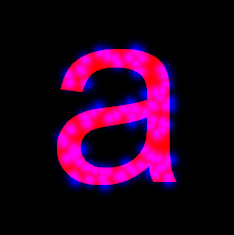
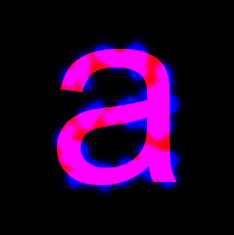
implement threshold-merging method

Changed region(s): [[0.2094, 0.1489, 0.7778, 0.8043]]

diff --git a/bubbles.py b/bubbles.py
@@ -3,7 +3,7 @@ import numpy as np
 from scipy.stats import norm
 from skimage.morphology import binary_dilation
 
-def build_mask(mu_y, mu_x, sigma, sh, scale):
+def build_mask(mu_y, mu_x, sigma, sh, scale, max_merge=False):
     """Build a Bubbles mask which can be applied to an image of shape `sh`. Returns a matrix for the mask.
     
      Keyword arguments:
@@ -12,6 +12,7 @@ def build_mask(mu_y, mu_x, sigma, sh, scale):
     sigma -- array of sigmas for the spread of the bubbles (should be same len as mu_y)
     sh -- shape (np.shape) of the desired mask (usually the shape of the respective image)
     scale -- should densities' maxima be consistently scaled across different sigma values?
+    max_merge -- should merges, where bubbles overlap, be completed using a simple max of the two bubbles? If False (the default), distributions are instead summed, and then thresholded to the maxima of the pre-merged bubbles.
     """
     # check lengths match and are all 1d
     gauss_pars_sh = [np.shape(x) for x in [mu_y, mu_x, sigma]]
@@ -33,10 +34,16 @@ def build_mask(mu_y, mu_x, sigma, sh, scale):
     # scale if requested
     if scale:
         dists = [x/np.max(x) for x in dists]
-        
-    # build mask from list of bubbles
-    mask = np.max(dists, axis=0)
     
+    if max_merge:
+        # build mask from list of bubbles
+        mask = np.max(dists, axis=0)
+        
+    else:
+        # sum the distributions, then threshold the maximum to the maximum peak
+        mask = np.sum(dists, axis=0)
+        mask[mask>np.max(dists)] = np.max(dists)
+        
     # scale density to within [0, 1] (will already be scaled to [0, 1] above if scale==True)
     if not scale:
         mask /= np.max(mask)
@@ -194,6 +201,9 @@ if __name__ == "__main__":
     parser.add_argument('--unscaled', help='do not scale the densities of the bubbles to have the same maxima',
                         action='store_false')
     
+    parser.add_argument('--maxmerge', help='should merges, where bubbles overlap, be completed using a simple max of the two bubbles? If not (the default), distributions are instead summed, and then thresholded to the maxima of the pre-merged bubbles.',
+                        action='store_true')
+    
     parser.add_argument('--seed', help='random seed to use', action='store', type=int)
     
     args = parser.parse_args()
@@ -202,7 +212,7 @@ if __name__ == "__main__":
         np.random.seed(args.seed)
     
     im = Image.open(args.input)
-    im_out = bubbles_mask(im=im, mu_x=args.mu_x, mu_y=args.mu_y, sigma=args.sigma, bg=args.background, scale=args.unscaled)[0]
+    im_out = bubbles_mask(im=im, mu_x=args.mu_x, mu_y=args.mu_y, sigma=args.sigma, bg=args.background, scale=args.unscaled, max_merge=args.maxmerge)[0]
     im_out.save(args.output)
     
     

diff --git a/README.md b/README.md
@@ -145,9 +145,9 @@ python bubbles.py --help
 
 ```
 usage: bubbles.py [-h] -i INPUT -o OUTPUT -s SIGMA [SIGMA ...] [-x MU_X [MU_X ...]] [-y MU_Y [MU_Y ...]]
-                  [-b BACKGROUND] [--unscaled] [--seed SEED]
+                  [-b BACKGROUND [BACKGROUND ...]] [--unscaled] [--maxmerge] [--seed SEED]
 
-options:
+optional arguments:
   -h, --help            show this help message and exit
   -i INPUT, --input INPUT
                         the file path for the input image
@@ -161,8 +161,12 @@ options:
   -y MU_Y [MU_Y ...], --mu_y MU_Y [MU_Y ...]
                         y indices (axis 0 in numpy) for bubble locations, in space-separated format - leave
                         blank (default) for random location
-  -b BACKGROUND, --background BACKGROUND
-                        the desired background for the image, from 0 to 255 (default=0)
+  -b BACKGROUND [BACKGROUND ...], --background BACKGROUND [BACKGROUND ...]
+                        the desired background for the image, as a single integer from 0 to 255 (default=0), or
+                        space-separated values for each channel in the image
   --unscaled            do not scale the densities of the bubbles to have the same maxima
+  --maxmerge            should merges, where bubbles overlap, be completed using a simple max of the two
+                        bubbles? If not (the default), distributions are instead summed, and then thresholded
+                        to the maxima of the pre-merged bubbles.
   --seed SEED           random seed to use
 ```
